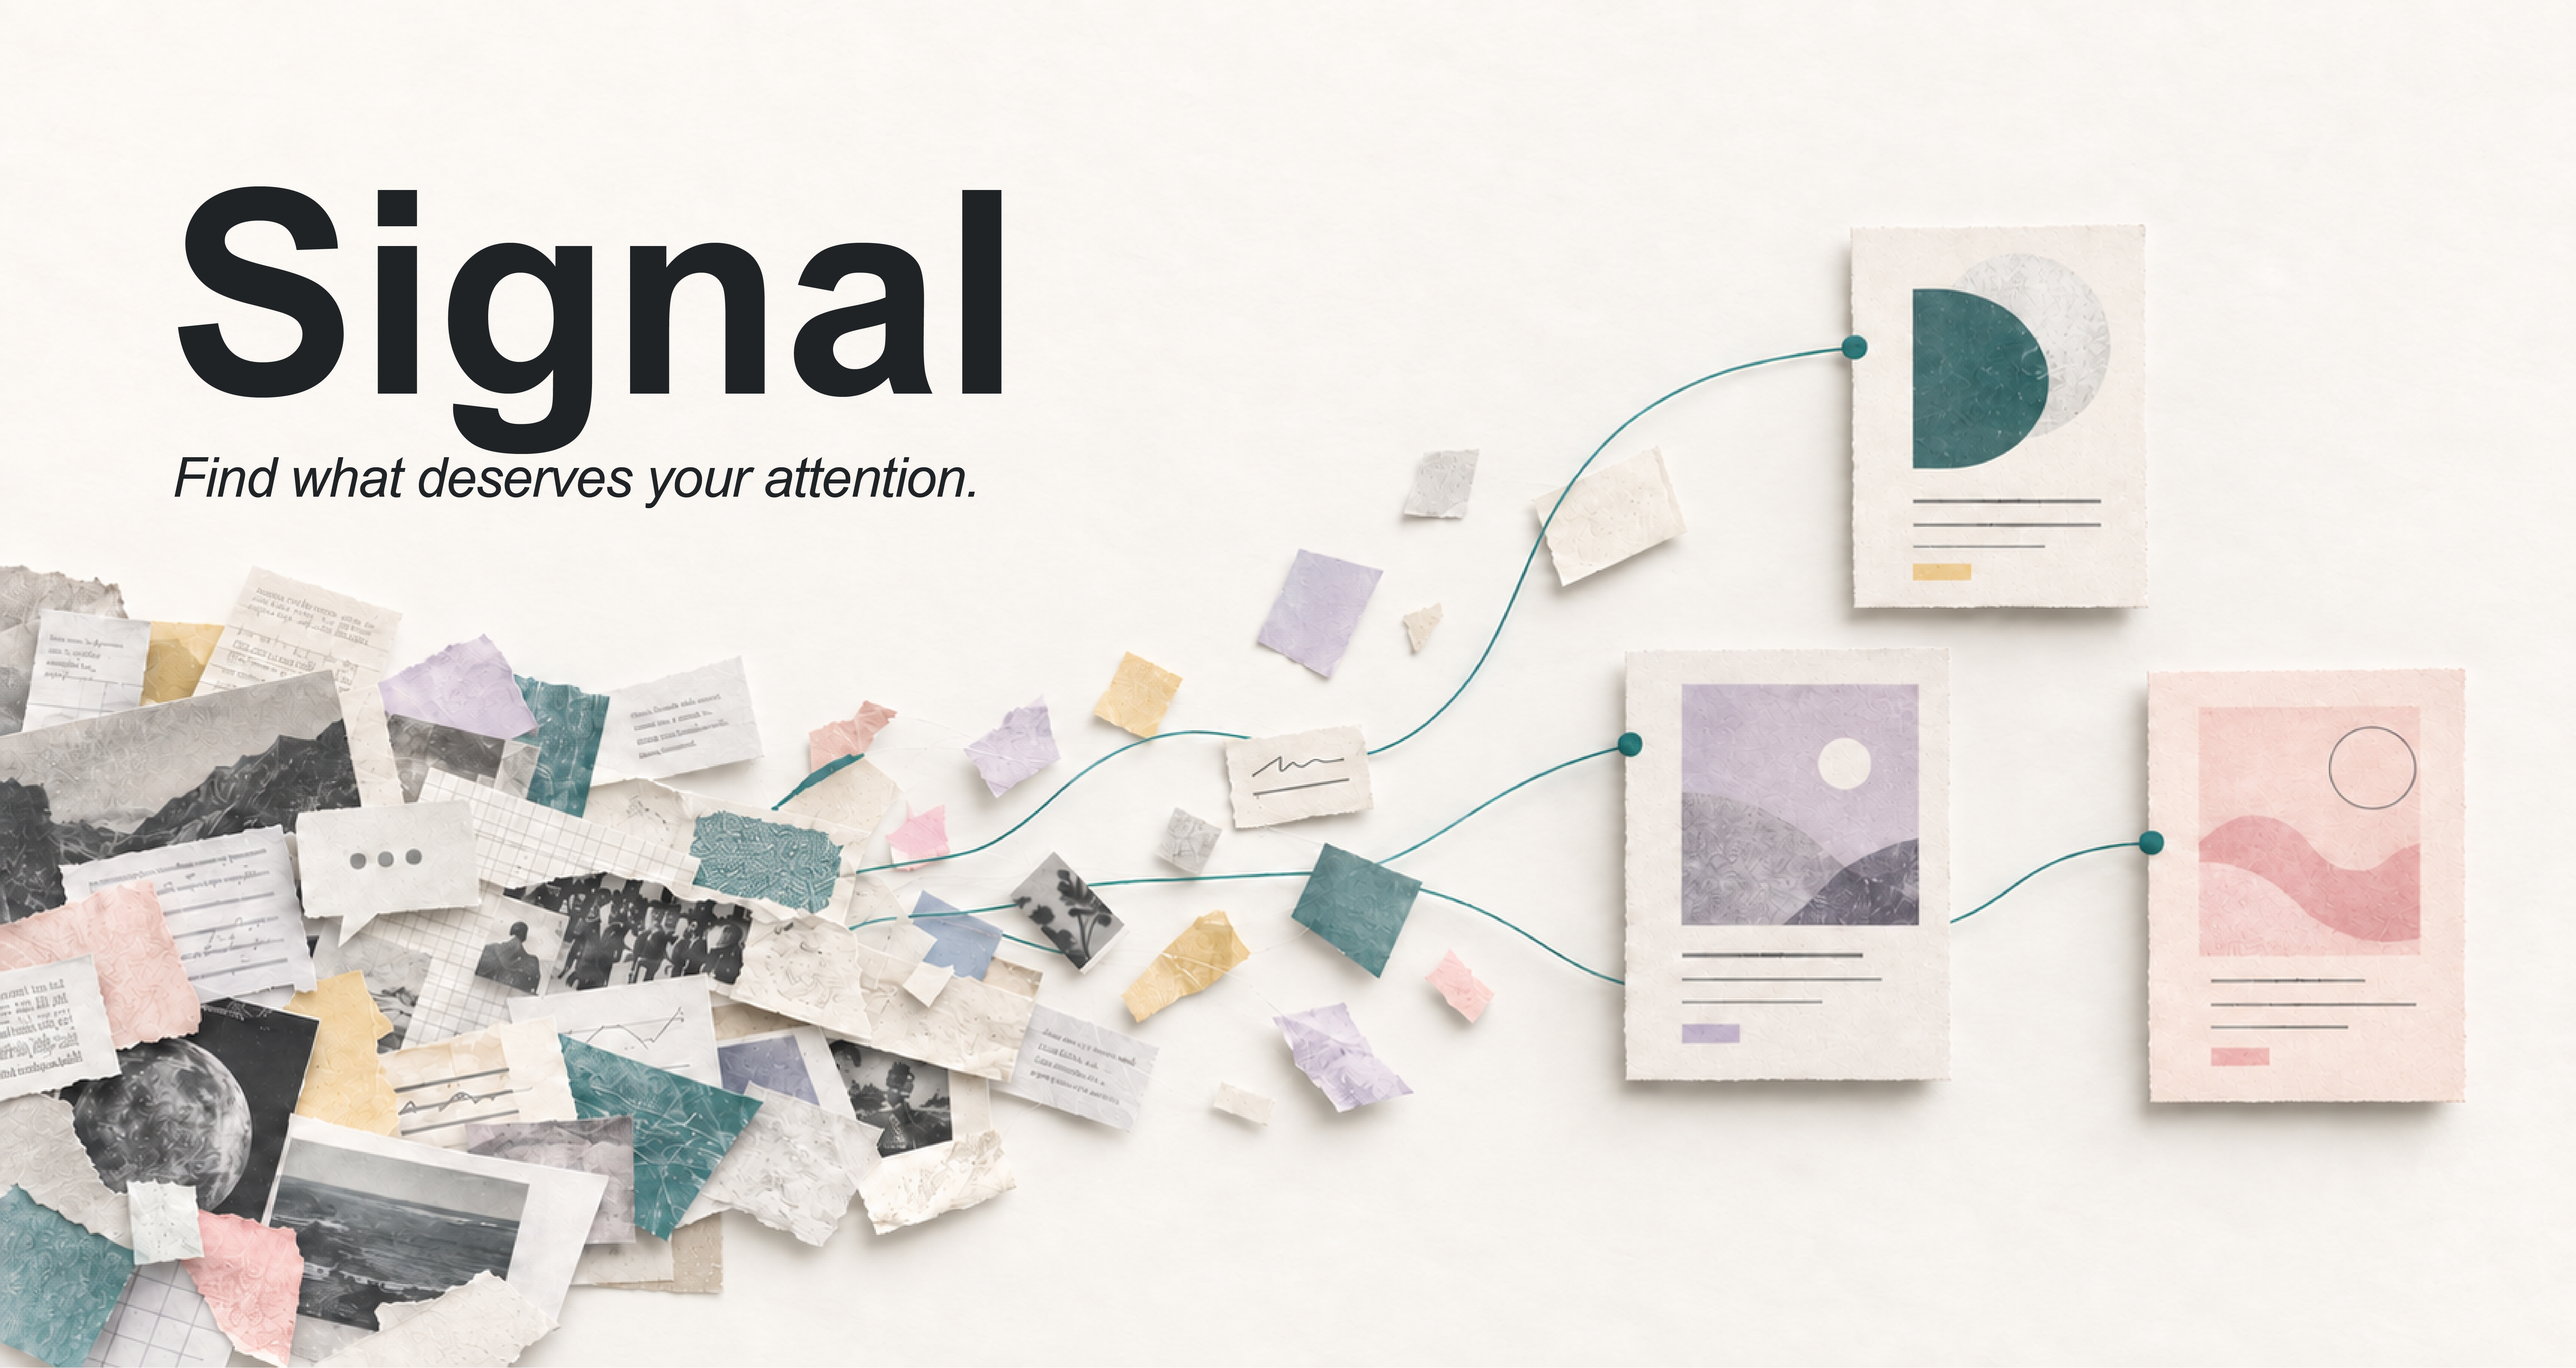
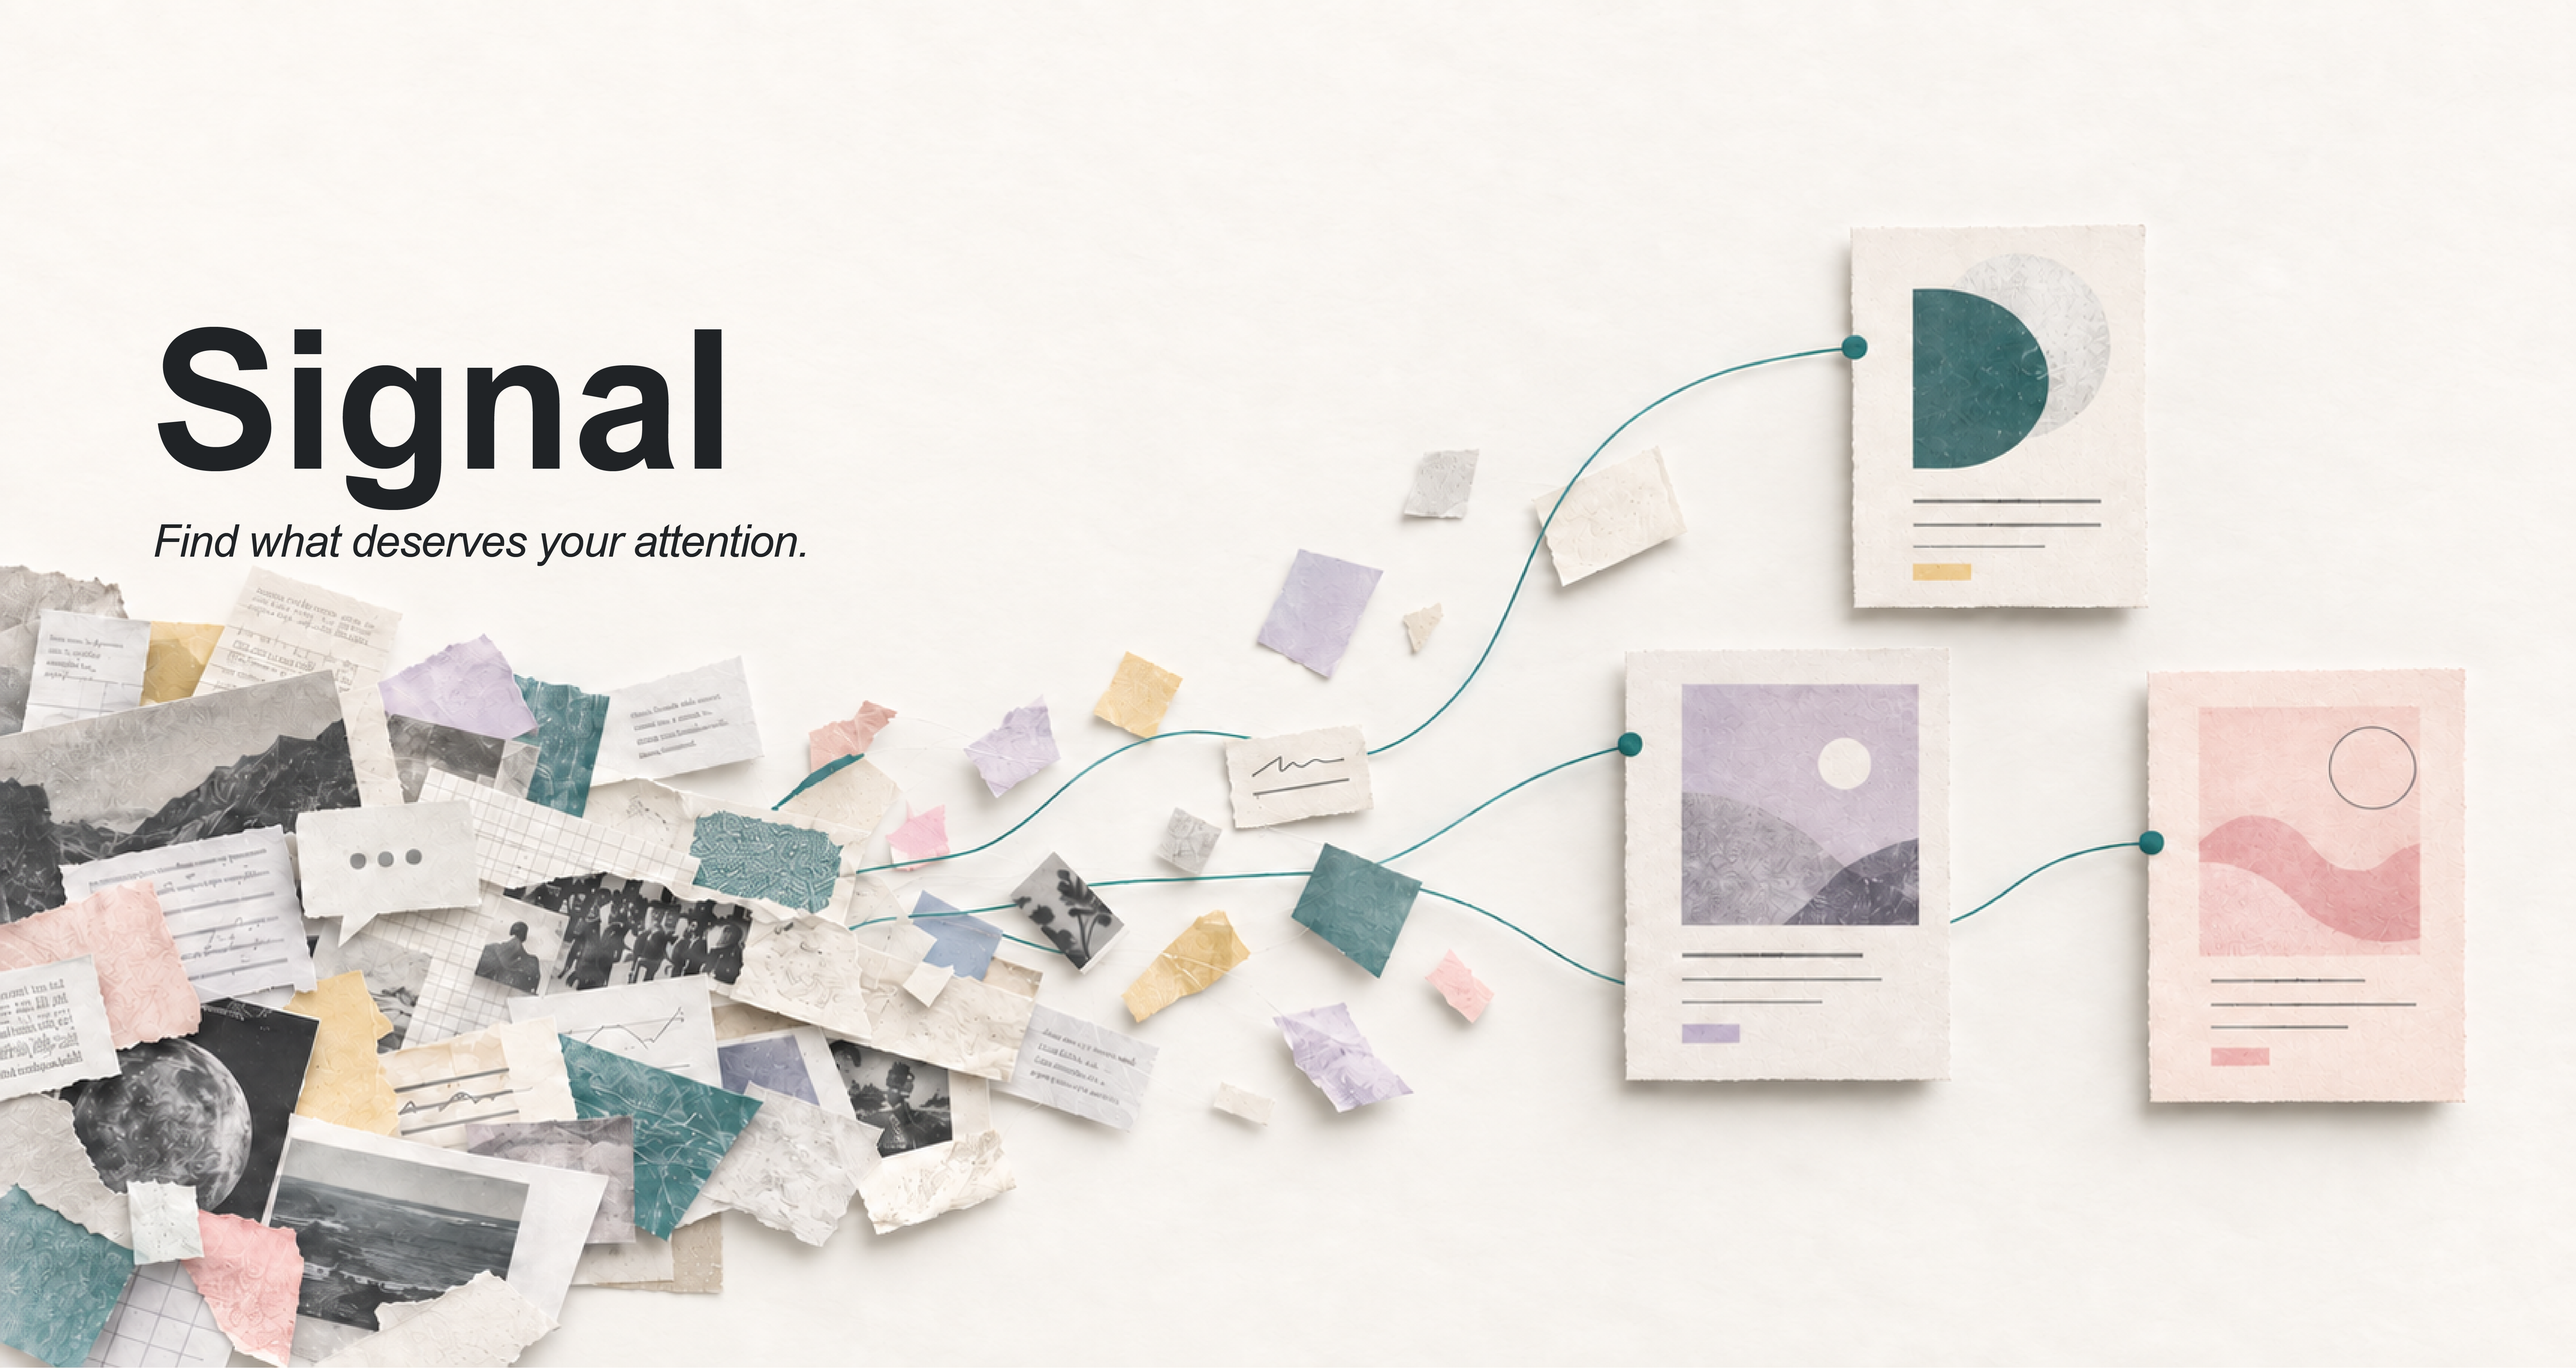
Show the full Signal hero without cropping and bold the Overview closer.

Changed region(s): [[0.0625, 0.125, 0.4061, 0.4061]]

diff --git a/src/components/project/content/SignalContent.jsx b/src/components/project/content/SignalContent.jsx
@@ -75,8 +75,11 @@ export default function SignalContent() {
           developments in the AI industry. After discussing this with fellow researchers and AI
           product managers, I realized this wasn&apos;t just a personal issue. Everyone needs to
           keep pace with the rapidly changing AI landscape, yet few can find the time to
-          consistently read through the flood of information. What we need is a way to quickly
-          identify content that is truly worth reading.
+          consistently read through the flood of information.
+          <br />
+          <strong>
+            What we need is a way to quickly identify content that is truly worth reading.
+          </strong>
         </p>
         <Fig src="/assets/Signal/cover.JPG" />
       </ProjectSection>

diff --git a/src/styles/project.css b/src/styles/project.css
@@ -99,7 +99,7 @@ body.scroll-locked {
   padding-top: 56px;
 }
 
-.project-page-has-hero .hero-img:not(.hero-img-ug):not(.hero-img-ideation):not(.hero-img-uos) {
+.project-page-has-hero .hero-img:not(.hero-img-ug):not(.hero-img-ideation):not(.hero-img-uos):not(.hero-img-signal) {
   width: 100%;
   height: calc(100vh - 9rem);
   max-height: none;
@@ -108,7 +108,7 @@ body.scroll-locked {
   display: block;
 }
 
-.hero-img:not(.hero-img-ug):not(.hero-img-uos):not(.hero-img-ideation) {
+.hero-img:not(.hero-img-ug):not(.hero-img-uos):not(.hero-img-ideation):not(.hero-img-signal) {
   width: 100%;
   max-height: 520px;
   object-fit: cover;

diff --git a/src/data/projects.js b/src/data/projects.js
@@ -17,7 +17,7 @@ export const projects = {
       hero: {
         src: '/assets/Signal/Signal-hero.png',
         alt: 'Signal — Find what deserves your attention',
-        className: 'hero-img hero-img-wearable',
+        className: 'hero-img hero-img-signal',
       },
       meta: [
         { label: 'Time', value: '2026 8' },

diff --git a/src/styles/project-pages.css b/src/styles/project-pages.css
@@ -7,6 +7,15 @@
   object-fit: contain;
 }
 
+.project-page-signal .hero-img-signal {
+  width: 100%;
+  height: auto;
+  max-height: none;
+  object-fit: contain;
+  object-position: center top;
+  display: block;
+}
+
 .hero-img-wearable {
   width: 100%;
   height: 56vh;

diff --git a/src/components/project/uos-sections.css b/src/components/project/uos-sections.css
@@ -59,6 +59,11 @@ section.uos-de {
   margin: 0 0 32px;
 }
 
+.uos-sec-prose strong {
+  color: var(--text);
+  font-weight: 600;
+}
+
 .uos-sec-prose:last-child {
   margin-bottom: 0;
 }
